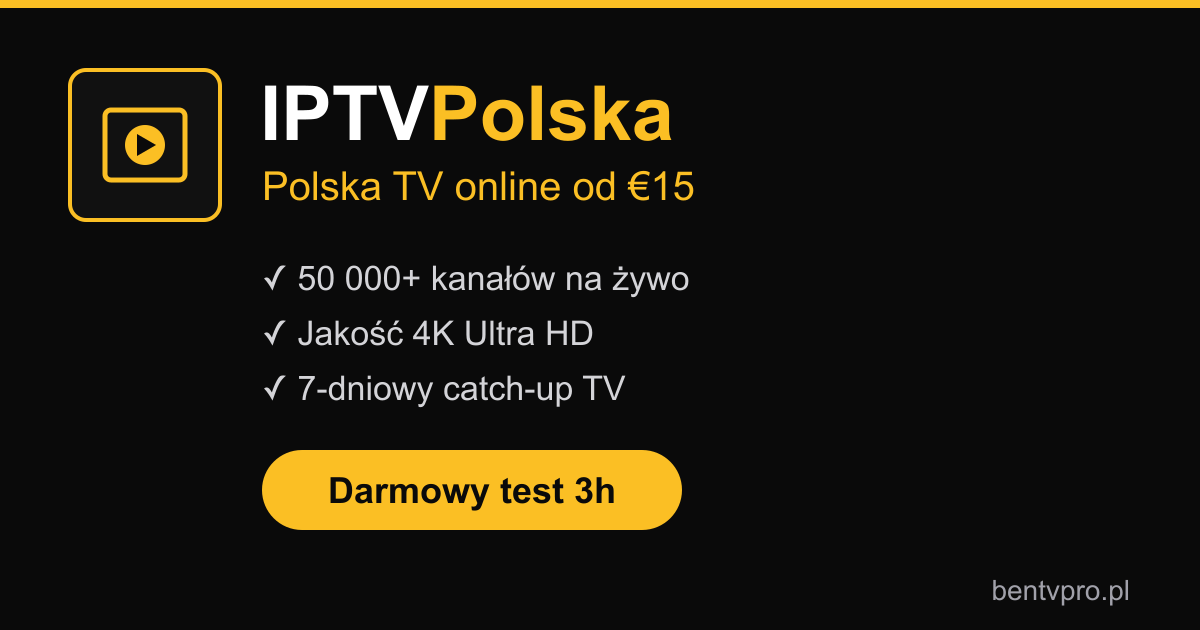
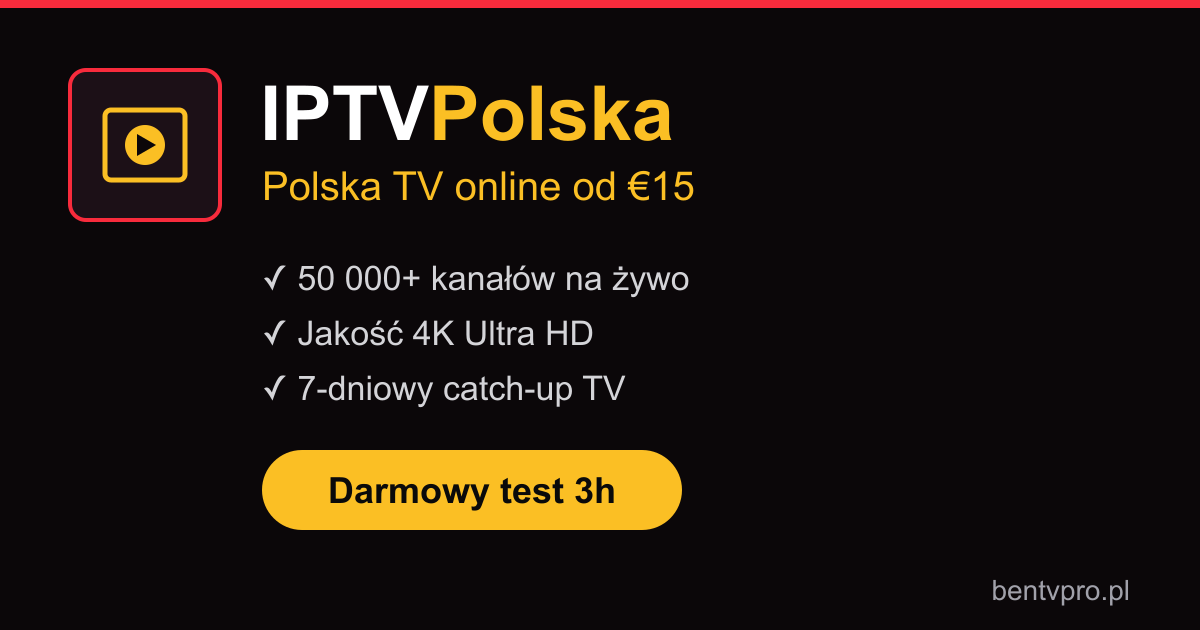
Redesign bentvpro.pl identity: scarlet+gold palette, display font, richer animation
- New palette: Polish scarlet brand + warm gold accent on plum-charcoal base
  (was shared navy + rose + violet template look)
- Add Space Grotesk display font for headings (--font-display)
- Site-wide animated plum→gold mesh background layer
- Expanded animation system: spin-slow, breathe, drift, pulse-ring, bob, tilt,
  card-hover lift, animated section-heading accent bar
- Rework Hero: drifting scarlet/gold aurora, rotating conic glow ring behind the
  TV, bobbing floating chips, staggered animated stat cards, Polish-flag accents
- Recolor + regenerate OG image; add themeColor #0b0709

Changed region(s): [[0.0, 0.0, 1.0, 0.0302], [0.0617, 0.0905, 0.185, 0.3619], [0.0308, 0.1206, 0.0617, 0.3317]]

diff --git a/app/globals.css b/app/globals.css
@@ -1,34 +1,36 @@
 @import "tailwindcss";
 
 /* ---------------------------------------------------------------
-   Design tokens
-   ink/surface/card: midnight navy layers, darkest to lightest
-   brand: rose-red (Polish red), paired with violet for gradients
+   Design tokens — bentvpro.pl identity
+   ink/surface/card: warm plum-charcoal layers, darkest to lightest
+   brand: Polish scarlet, paired with warm gold for gradients
 ---------------------------------------------------------------- */
 @theme {
   --font-sans: var(--font-jakarta), ui-sans-serif, system-ui, sans-serif;
+  --font-display: var(--font-display), var(--font-jakarta), ui-sans-serif, system-ui, sans-serif;
 
-  --color-ink: #060810;
-  --color-surface: #0a0d1a;
-  --color-card: #10142a;
-  --color-card-2: #171c36;
-  --color-card-3: #1f2545;
+  --color-ink: #0b0709;
+  --color-surface: #130b11;
+  --color-card: #1c1017;
+  --color-card-2: #271620;
+  --color-card-3: #351d2b;
 
-  --color-brand-50: #fff1f3;
-  --color-brand-100: #ffe0e5;
-  --color-brand-200: #ffc6d0;
-  --color-brand-300: #ff9cad;
-  --color-brand-400: #ff6382;
-  --color-brand-500: #f8335c;
-  --color-brand-600: #e5124a;
-  --color-brand-700: #c1093d;
-  --color-brand-800: #a10b39;
-  --color-brand-900: #890e36;
-  --color-brand-950: #4d0219;
+  --color-brand-50: #fff1f1;
+  --color-brand-100: #ffdedf;
+  --color-brand-200: #ffc2c5;
+  --color-brand-300: #ff949a;
+  --color-brand-400: #ff5a63;
+  --color-brand-500: #f82b3c;
+  --color-brand-600: #e21032;
+  --color-brand-700: #bd0a2a;
+  --color-brand-800: #9c0b28;
+  --color-brand-900: #830f28;
+  --color-brand-950: #480511;
 
-  --color-accent-400: #a78bfa;
-  --color-accent-500: #8b5cf6;
-  --color-accent-600: #7c3aed;
+  --color-accent-300: #fcd34d;
+  --color-accent-400: #fbbf24;
+  --color-accent-500: #f59e0b;
+  --color-accent-600: #d97706;
 
   --animate-aurora: aurora 18s ease-in-out infinite alternate;
   --animate-float: float 6s ease-in-out infinite;
@@ -41,6 +43,12 @@
   --animate-rise: rise 0.7s cubic-bezier(0.22, 1, 0.36, 1) both;
   --animate-progress: progress 3.2s linear both;
   --animate-line: line-sweep 3s linear infinite;
+  --animate-spin-slow: spin-slow 22s linear infinite;
+  --animate-breathe: breathe 7s ease-in-out infinite;
+  --animate-drift: drift 16s ease-in-out infinite alternate;
+  --animate-pulse-ring: pulse-ring 2.4s cubic-bezier(0.22, 1, 0.36, 1) infinite;
+  --animate-bob: bob 3.5s ease-in-out infinite;
+  --animate-tilt: tilt 9s ease-in-out infinite;
 
   @keyframes aurora {
     0% { transform: translate3d(0, 0, 0) scale(1) rotate(0deg); }
@@ -83,6 +91,30 @@
     from { transform: scaleX(0); }
     to { transform: scaleX(1); }
   }
+  @keyframes spin-slow {
+    to { transform: rotate(360deg); }
+  }
+  @keyframes breathe {
+    0%, 100% { opacity: 0.55; transform: scale(1); }
+    50% { opacity: 1; transform: scale(1.08); }
+  }
+  @keyframes drift {
+    0% { transform: translate3d(0, 0, 0); }
+    100% { transform: translate3d(3%, -3%, 0); }
+  }
+  @keyframes pulse-ring {
+    0% { box-shadow: 0 0 0 0 color-mix(in oklab, var(--color-brand-500) 55%, transparent); }
+    70% { box-shadow: 0 0 0 14px transparent; }
+    100% { box-shadow: 0 0 0 0 transparent; }
+  }
+  @keyframes bob {
+    0%, 100% { transform: translateY(0) rotate(0deg); }
+    50% { transform: translateY(-7px) rotate(-2deg); }
+  }
+  @keyframes tilt {
+    0%, 100% { transform: rotate(-1.2deg); }
+    50% { transform: rotate(1.2deg); }
+  }
 }
 
 html {
@@ -92,9 +124,14 @@ html {
 
 body {
   background: var(--color-ink);
-  color: #e6e8f2;
+  color: #efe6ea;
   font-family: var(--font-sans);
   -webkit-font-smoothing: antialiased;
+}
+
+h1, h2, h3, .font-display {
+  font-family: var(--font-display);
+  letter-spacing: -0.02em;
 }
 
 ::selection {
@@ -102,14 +139,46 @@ body {
   color: #fff;
 }
 
-/* Gradient text used for headline highlights */
+/* Animated plum→gold mesh fixed faintly behind the whole page */
+.mesh-bg {
+  position: fixed;
+  inset: 0;
+  z-index: -1;
+  pointer-events: none;
+  background:
+    radial-gradient(40% 55% at 12% 8%, color-mix(in oklab, var(--color-brand-600) 26%, transparent), transparent 60%),
+    radial-gradient(38% 50% at 88% 14%, color-mix(in oklab, var(--color-accent-500) 16%, transparent), transparent 60%),
+    radial-gradient(45% 60% at 70% 88%, color-mix(in oklab, var(--color-brand-800) 24%, transparent), transparent 62%);
+  background-size: 200% 200%;
+  animation: gradient-pan 24s ease-in-out infinite alternate;
+  opacity: 0.6;
+}
+
+/* Gradient text used for headline highlights — scarlet → gold */
 .text-gradient {
-  background-image: linear-gradient(100deg, var(--color-brand-400), #ff8fb1 35%, var(--color-accent-400) 70%, var(--color-brand-400));
+  background-image: linear-gradient(100deg, var(--color-brand-400), #ff7a52 32%, var(--color-accent-400) 66%, var(--color-brand-400));
   background-size: 200% auto;
   -webkit-background-clip: text;
   background-clip: text;
   color: transparent;
   animation: var(--animate-gradient);
+}
+
+/* Animated underline that sweeps under section eyebrows/headings */
+.anim-underline {
+  position: relative;
+}
+.anim-underline::after {
+  content: "";
+  position: absolute;
+  left: 0;
+  bottom: -6px;
+  height: 2px;
+  width: 100%;
+  background: linear-gradient(90deg, transparent, var(--color-brand-500), var(--color-accent-400), transparent);
+  background-size: 200% 100%;
+  animation: gradient-pan 4s linear infinite;
+  border-radius: 2px;
 }
 
 /* Faint grid behind hero sections */
@@ -127,7 +196,7 @@ body {
   overflow: hidden;
   isolation: isolate;
   color: #fff;
-  background-image: linear-gradient(110deg, var(--color-brand-600), var(--color-brand-500) 45%, var(--color-accent-600));
+  background-image: linear-gradient(110deg, var(--color-brand-600), var(--color-brand-500) 42%, var(--color-accent-500));
   box-shadow: 0 10px 30px -10px color-mix(in oklab, var(--color-brand-500) 70%, transparent);
   transition: transform 0.2s ease, box-shadow 0.2s ease, filter 0.2s ease;
 }
@@ -194,6 +263,15 @@ body {
   opacity: 1;
 }
 
+/* Lift + brand glow on hover for feature/pricing cards */
+.card-hover {
+  transition: transform 0.3s cubic-bezier(0.22, 1, 0.36, 1), box-shadow 0.3s ease, border-color 0.3s ease;
+}
+.card-hover:hover {
+  transform: translateY(-6px);
+  box-shadow: 0 24px 50px -24px color-mix(in oklab, var(--color-brand-600) 65%, transparent);
+}
+
 /* Scroll reveal (toggled by the Reveal component) */
 .reveal {
   opacity: 0;
@@ -226,11 +304,12 @@ body {
     opacity: 1;
     transform: none;
   }
+  .mesh-bg { animation: none; }
 }
 
 /* Soft brand glow behind inner-page headers */
 .page-hero {
   background-image:
-    radial-gradient(60% 120% at 15% 0%, color-mix(in oklab, var(--color-brand-600) 22%, transparent), transparent 70%),
-    radial-gradient(50% 100% at 90% 10%, color-mix(in oklab, var(--color-accent-600) 18%, transparent), transparent 70%);
+    radial-gradient(60% 120% at 15% 0%, color-mix(in oklab, var(--color-brand-600) 24%, transparent), transparent 70%),
+    radial-gradient(50% 100% at 90% 10%, color-mix(in oklab, var(--color-accent-500) 16%, transparent), transparent 70%);
 }

diff --git a/app/components/Hero.tsx b/app/components/Hero.tsx
@@ -15,11 +15,11 @@ const stats = [
 export default function Hero() {
   return (
     <section className="relative overflow-hidden bg-ink pt-28 sm:pt-36 pb-16 sm:pb-24">
-      {/* Animated aurora */}
+      {/* Drifting scarlet + gold field */}
       <div className="pointer-events-none absolute inset-0" aria-hidden="true">
-        <div className="absolute -top-40 -left-32 h-[34rem] w-[34rem] rounded-full bg-brand-600/30 blur-[120px] animate-aurora" />
-        <div className="absolute top-10 -right-40 h-[30rem] w-[30rem] rounded-full bg-accent-600/25 blur-[120px] animate-aurora [animation-delay:-6s]" />
-        <div className="absolute -bottom-40 left-1/3 h-[26rem] w-[26rem] rounded-full bg-sky-500/10 blur-[120px] animate-aurora [animation-delay:-12s]" />
+        <div className="absolute -top-44 -left-28 h-[36rem] w-[36rem] rounded-full bg-brand-600/30 blur-[130px] animate-drift" />
+        <div className="absolute -top-10 right-[-10rem] h-[32rem] w-[32rem] rounded-full bg-accent-500/20 blur-[130px] animate-breathe" />
+        <div className="absolute bottom-[-12rem] left-1/3 h-[28rem] w-[28rem] rounded-full bg-brand-800/40 blur-[130px] animate-drift [animation-delay:-8s]" />
         <div className="absolute inset-0 bg-grid" />
         <div className="absolute inset-x-0 bottom-0 h-40 bg-gradient-to-t from-ink to-transparent" />
       </div>
@@ -28,11 +28,15 @@ export default function Hero() {
         {/* Copy */}
         <div className="text-center lg:text-left">
           <div className="animate-fade-up inline-flex items-center gap-2 rounded-full border border-white/10 bg-white/5 py-1 pl-1 pr-3.5 text-xs font-medium text-slate-300 backdrop-blur">
-            <span className="flex items-center gap-1.5 rounded-full bg-brand-600 px-2.5 py-0.5 text-[10px] font-bold uppercase tracking-wider text-white">
+            <span className="flex items-center gap-1.5 rounded-full bg-brand-600 px-2.5 py-0.5 text-[10px] font-bold uppercase tracking-wider text-white animate-pulse-ring">
               <span className="h-1.5 w-1.5 animate-pulse rounded-full bg-white" />
               Live
             </span>
             Serwery online — oglądaj teraz
+            <span className="ml-1 inline-flex overflow-hidden rounded-[3px] ring-1 ring-white/15" aria-hidden="true">
+              <span className="h-3 w-2.5 bg-white" />
+              <span className="h-3 w-2.5 bg-brand-600" />
+            </span>
           </div>
 
           <h1 className="animate-rise mt-6 text-[2.6rem] leading-[1.05] sm:text-6xl lg:text-7xl font-extrabold tracking-tight text-white text-balance">
@@ -56,9 +60,10 @@ export default function Hero() {
             </a>
             <a
               href="#pricing"
-              className="w-full sm:w-auto rounded-full border border-white/15 bg-white/5 px-8 py-4 text-base font-semibold text-white text-center backdrop-blur transition-colors hover:border-white/30 hover:bg-white/10"
+              className="group w-full sm:w-auto rounded-full border border-white/15 bg-white/5 px-8 py-4 text-base font-semibold text-white text-center backdrop-blur transition-colors hover:border-brand-400/40 hover:bg-white/10"
             >
               Sprawdź plany od €15
+              <span className="ml-1.5 inline-block transition-transform group-hover:translate-x-1">→</span>
             </a>
           </div>
 
@@ -74,21 +79,29 @@ export default function Hero() {
           </ul>
         </div>
 
-        {/* TV mockup */}
+        {/* TV mockup with a rotating conic glow ring */}
         <div className="animate-fade-up [animation-delay:300ms] relative mx-auto w-full max-w-xl lg:max-w-none">
+          <div
+            className="pointer-events-none absolute left-1/2 top-1/2 -z-10 h-[115%] w-[115%] -translate-x-1/2 -translate-y-1/2 rounded-full opacity-60 blur-2xl animate-spin-slow"
+            style={{
+              background:
+                "conic-gradient(from 0deg, var(--color-brand-600), var(--color-accent-500), transparent 55%, var(--color-brand-600))",
+            }}
+            aria-hidden="true"
+          />
           <HeroScreen />
 
           {/* Floating chips */}
-          <div className="absolute -left-3 sm:-left-8 top-[42%] hidden sm:flex animate-float items-center gap-2.5 rounded-2xl border border-white/10 bg-card/90 px-3.5 py-2.5 shadow-xl backdrop-blur">
+          <div className="absolute -left-3 sm:-left-8 top-[42%] hidden sm:flex animate-bob items-center gap-2.5 rounded-2xl border border-white/10 bg-card/90 px-3.5 py-2.5 shadow-xl backdrop-blur">
             <span className="grid h-8 w-8 place-items-center rounded-xl bg-brand-500/15 text-brand-300">
               <Tv2 size={16} />
             </span>
             <span className="text-left">
-              <span className="block text-sm font-bold text-white">50 000+</span>
+              <span className="block text-sm font-bold text-white">50&nbsp;000+</span>
               <span className="block text-[11px] text-slate-400">kanałów</span>
             </span>
           </div>
-          <div className="absolute -right-3 sm:-right-6 bottom-20 hidden sm:flex animate-float [animation-delay:-3s] items-center gap-2.5 rounded-2xl border border-white/10 bg-card/90 px-3.5 py-2.5 shadow-xl backdrop-blur">
+          <div className="absolute -right-3 sm:-right-6 bottom-20 hidden sm:flex animate-bob [animation-delay:-1.6s] items-center gap-2.5 rounded-2xl border border-white/10 bg-card/90 px-3.5 py-2.5 shadow-xl backdrop-blur">
             <span className="grid h-8 w-8 place-items-center rounded-xl bg-accent-500/15 text-accent-400">
               <Clock3 size={16} />
             </span>
@@ -100,17 +113,16 @@ export default function Hero() {
         </div>
       </div>
 
-      {/* Stats */}
+      {/* Stats — separate cards that lift on hover */}
       <div className="relative mx-auto mt-16 sm:mt-24 max-w-6xl px-4 sm:px-6 lg:px-8">
-        <div className="grid grid-cols-2 lg:grid-cols-4 overflow-hidden rounded-3xl border border-white/10 bg-white/[0.03] backdrop-blur">
+        <div className="grid grid-cols-2 gap-3 sm:gap-4 lg:grid-cols-4">
           {stats.map(({ icon: Icon, value, suffix, label }, i) => (
             <div
               key={label}
-              className={`flex items-center gap-4 p-5 sm:p-7 ${i % 2 === 1 ? "border-l border-white/10" : ""} ${
-                i > 1 ? "border-t lg:border-t-0 border-white/10" : ""
-              } ${i === 2 ? "lg:border-l" : ""}`}
+              className="card-hover animate-fade-up flex items-center gap-4 rounded-2xl border border-white/10 bg-white/[0.03] p-5 backdrop-blur hover:border-brand-500/30 sm:p-6"
+              style={{ animationDelay: `${600 + i * 90}ms` }}
             >
-              <span className="hidden sm:grid h-11 w-11 shrink-0 place-items-center rounded-2xl bg-gradient-to-br from-brand-500/20 to-accent-500/20 text-brand-300">
+              <span className="grid h-11 w-11 shrink-0 place-items-center rounded-2xl bg-gradient-to-br from-brand-500/25 to-accent-500/25 text-brand-300 ring-1 ring-inset ring-white/10">
                 <Icon size={20} />
               </span>
               <div>

diff --git a/app/layout.tsx b/app/layout.tsx
@@ -1,5 +1,5 @@
-import type { Metadata } from "next";
-import { Plus_Jakarta_Sans } from "next/font/google";
+import type { Metadata, Viewport } from "next";
+import { Plus_Jakarta_Sans, Space_Grotesk } from "next/font/google";
 import { Analytics } from '@vercel/analytics/next';
 import { OG_IMAGE, SITE_URL } from "./lib/site";
 import "./globals.css";
@@ -10,6 +10,18 @@ const jakarta = Plus_Jakarta_Sans({
   subsets: ["latin", "latin-ext"],
   display: "swap",
 });
+
+// Distinct display face for headings — gives bentvpro.pl its own voice.
+const spaceGrotesk = Space_Grotesk({
+  variable: "--font-display",
+  subsets: ["latin", "latin-ext"],
+  weight: ["500", "600", "700"],
+  display: "swap",
+});
+
+export const viewport: Viewport = {
+  themeColor: "#0b0709",
+};
 
 export const metadata: Metadata = {
   metadataBase: new URL(SITE_URL),
@@ -64,9 +76,10 @@ export default function RootLayout({
   return (
     <html
       lang="pl"
-      className={`${jakarta.variable} h-full antialiased dark`}
+      className={`${jakarta.variable} ${spaceGrotesk.variable} h-full antialiased dark`}
     >
       <body className="min-h-full flex flex-col bg-ink text-slate-200">
+        <div className="mesh-bg" aria-hidden="true" />
         {children}
         <Analytics />
       </body>

diff --git a/app/components/ui/SectionHeading.tsx b/app/components/ui/SectionHeading.tsx
@@ -12,11 +12,16 @@ export default function SectionHeading({ eyebrow, title, subtitle, className = "
   return (
     <Reveal className={`text-center max-w-3xl mx-auto mb-14 sm:mb-16 ${className}`}>
       <span className="inline-flex items-center gap-2 rounded-full border border-brand-500/25 bg-brand-500/10 px-3.5 py-1 text-xs font-semibold uppercase tracking-[0.18em] text-brand-300">
-        <span className="h-1.5 w-1.5 rounded-full bg-brand-400" />
+        <span className="h-1.5 w-1.5 rounded-full bg-brand-400 animate-pulse" />
         {eyebrow}
       </span>
       <h2 className="mt-5 text-3xl sm:text-5xl font-extrabold tracking-tight text-white text-balance">{title}</h2>
-      {subtitle && <p className="mt-4 text-base sm:text-lg text-slate-400 text-pretty">{subtitle}</p>}
+      <span
+        aria-hidden="true"
+        className="mx-auto mt-5 block h-[3px] w-20 rounded-full bg-gradient-to-r from-brand-500 to-accent-400 animate-gradient"
+        style={{ backgroundSize: "200% 100%" }}
+      />
+      {subtitle && <p className="mt-5 text-base sm:text-lg text-slate-400 text-pretty">{subtitle}</p>}
     </Reveal>
   );
 }

diff --git a/app/components/Features.tsx b/app/components/Features.tsx
@@ -4,7 +4,7 @@ import SectionHeading from "./ui/SectionHeading";
 import SpotlightGroup from "./ui/SpotlightGroup";
 
 const cardBase =
-  "spotlight group relative h-full overflow-hidden rounded-3xl border border-white/[0.07] bg-card/80 p-7 sm:p-8 transition-colors duration-300 hover:border-brand-500/30";
+  "spotlight card-hover group relative h-full overflow-hidden rounded-3xl border border-white/[0.07] bg-card/80 p-7 sm:p-8 hover:border-brand-500/30";
 
 function IconBadge({ icon: Icon }: { icon: typeof Tv2 }) {
   return (
